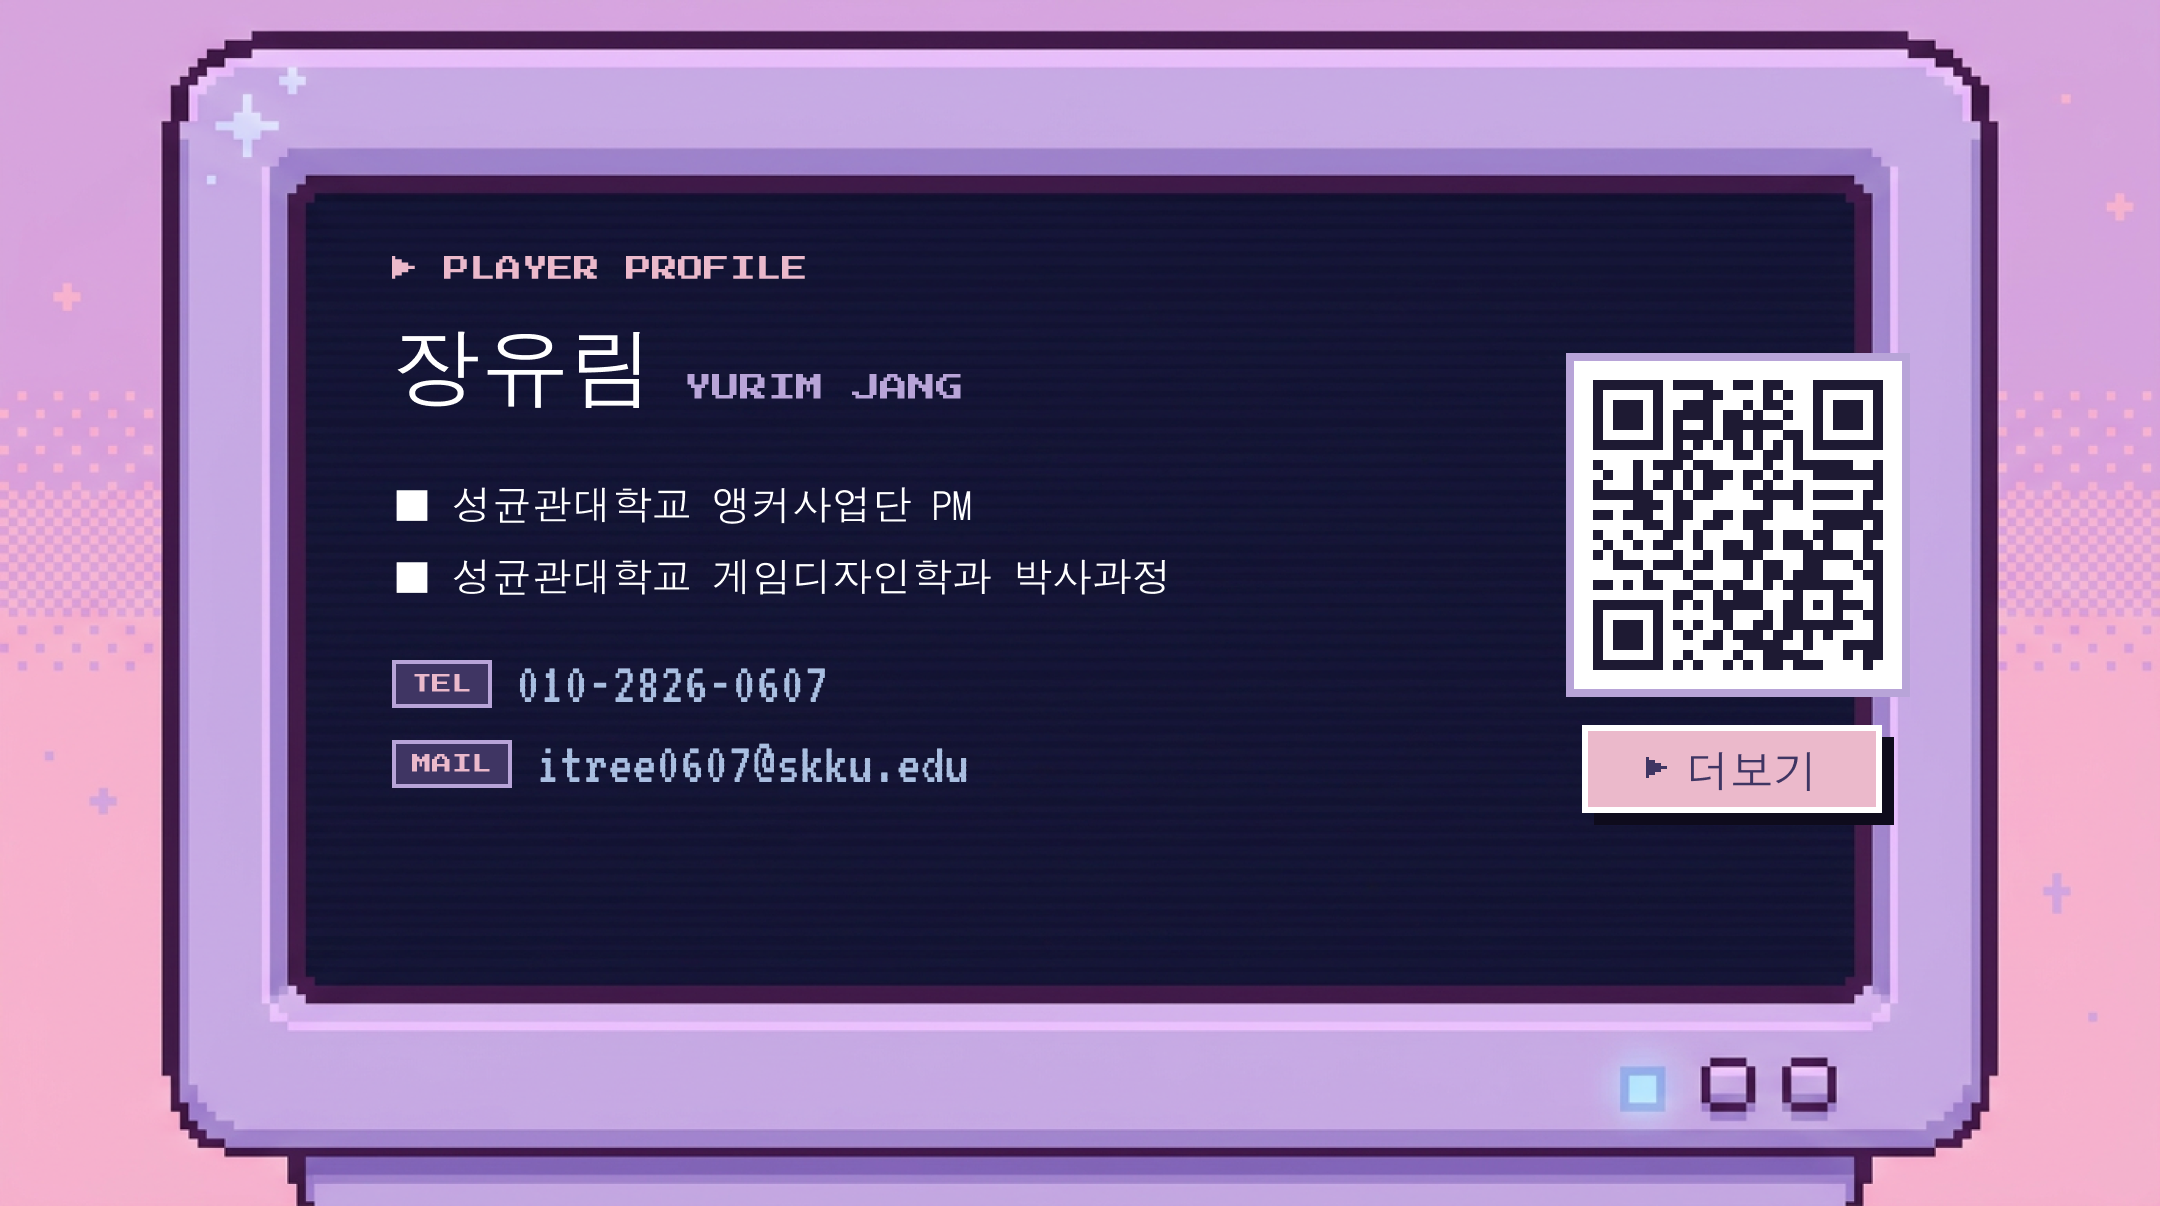
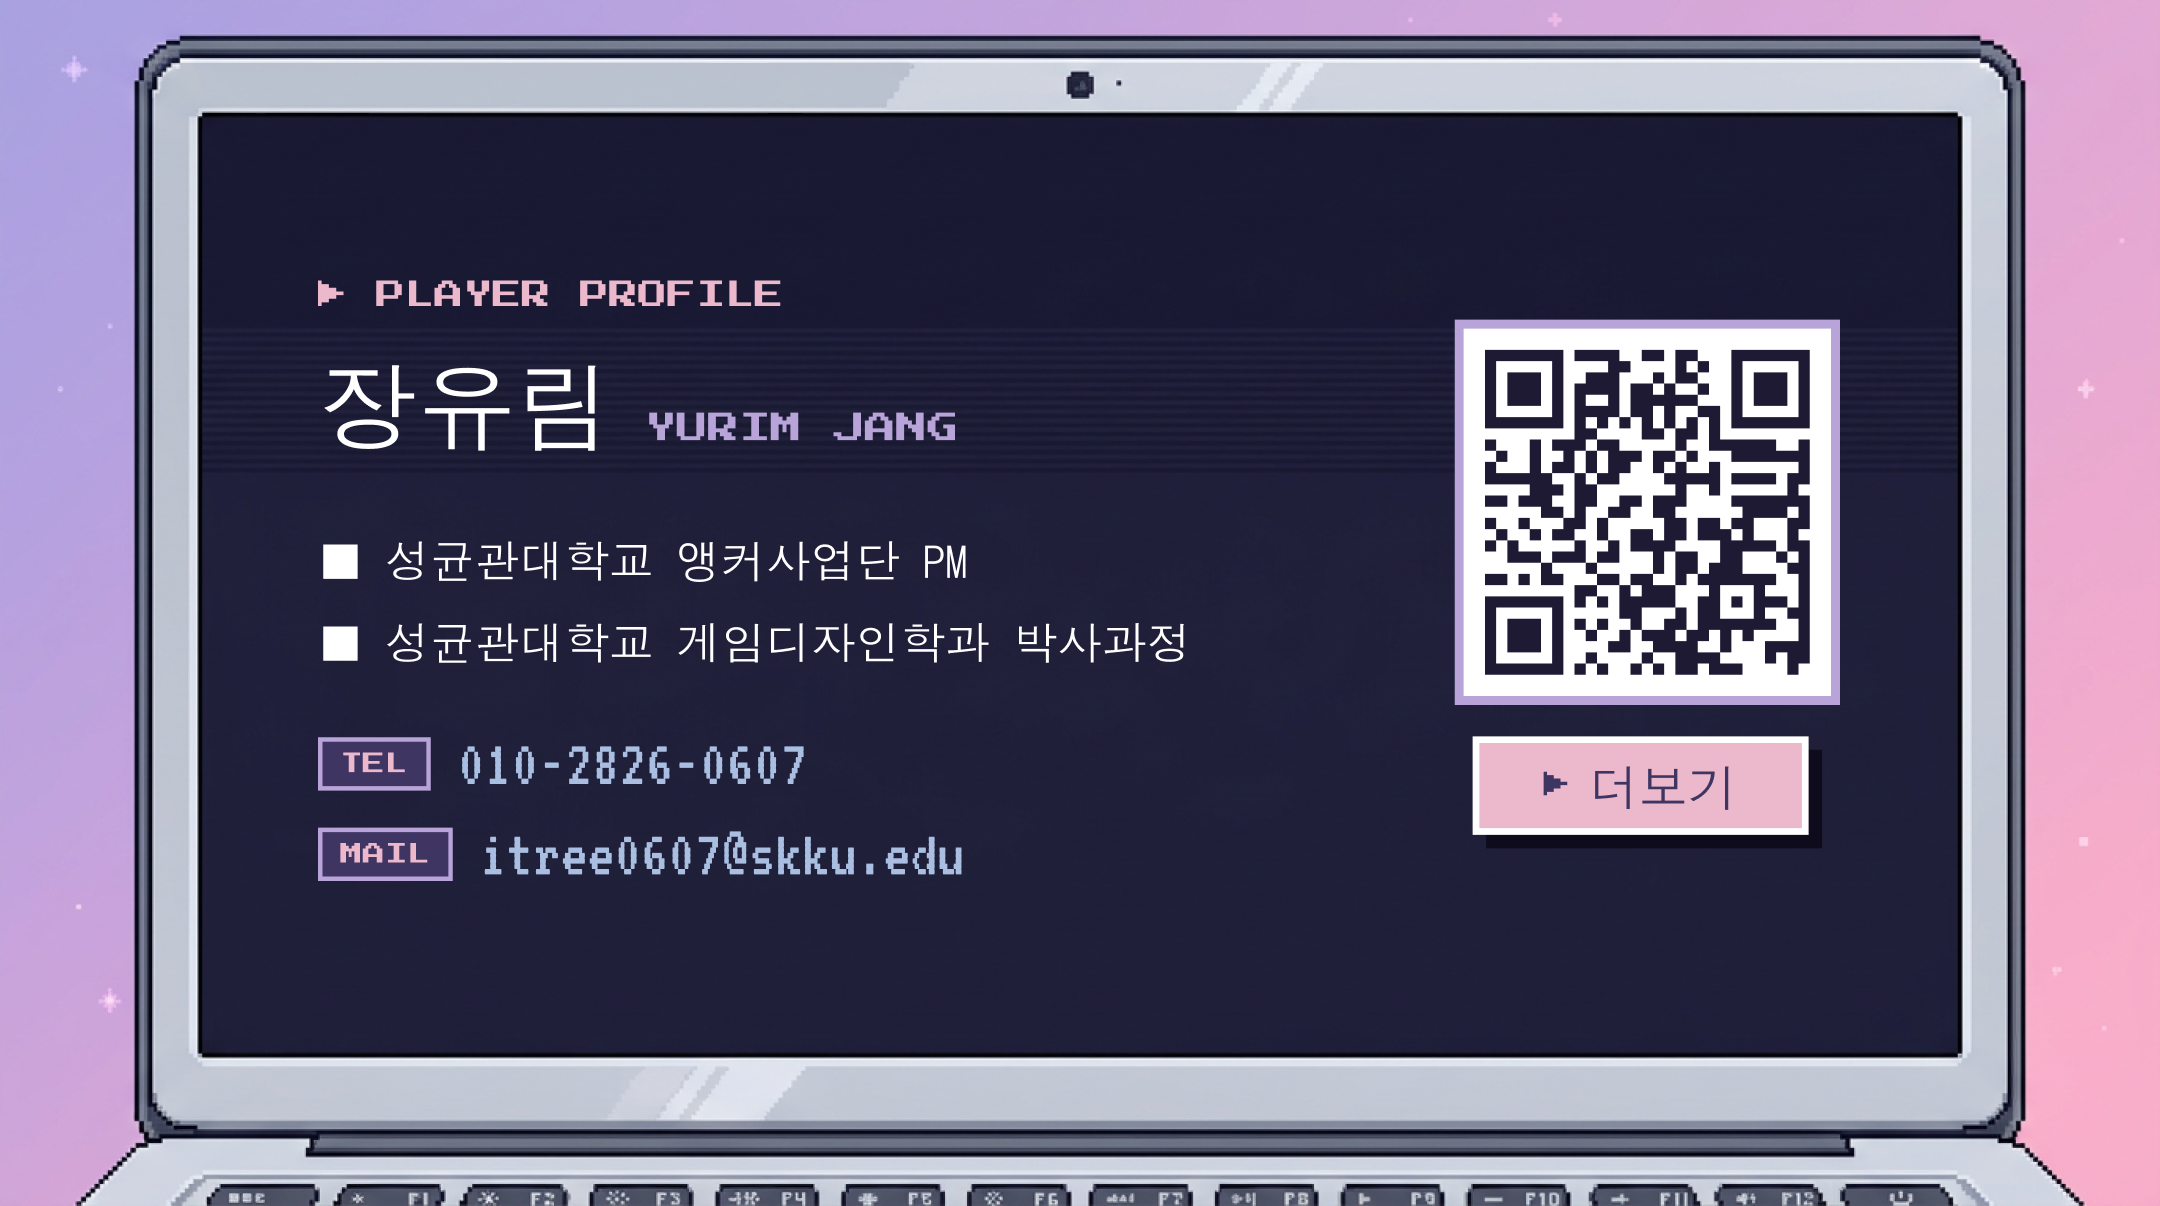
8주차 명함을 실버 노트북 앞·뒷면 디자인으로 교체

diff --git a/src/data.js b/src/data.js
@@ -88,7 +88,7 @@
       links:[{label:'GitHub',url:'https://github.com/JangYurim0607/week6_skills_package'},{label:'A 키워드 분석(PDF)',url:'https://github.com/JangYurim0607/week6_skills_package/blob/main/A_baseline/output/keyword_analysis.pdf'},{label:'A 스토리보드(PDF)',url:'https://github.com/JangYurim0607/week6_skills_package/blob/main/A_baseline/output/storyboard.pdf'},{label:'B 키워드 분석(PDF)',url:'https://github.com/JangYurim0607/week6_skills_package/blob/main/B_skills/output/keyword_analysis.pdf'},{label:'B 스토리보드(PDF)',url:'https://github.com/JangYurim0607/week6_skills_package/blob/main/B_skills/output/storyboard.pdf'},{label:'A 프롬프트(md)',url:'https://github.com/JangYurim0607/week6_skills_package/blob/main/A_baseline/prompt.md'},{label:'B 프롬프트(md)',url:'https://github.com/JangYurim0607/week6_skills_package/blob/main/B_skills/prompt.md'},{label:'A/B 비교(md)',url:'https://github.com/JangYurim0607/week6_skills_package/blob/main/compare/COMPARISON.md'}] }
     ,
     { week:'8주차', title:'피그마로 포트폴리오 디자인: 레이아웃 3종 · 브로슈어 · 명함',
-      description:'Claude Code에 Figma 플러그인을 연결해 이 사이트의 색과 폰트를 토큰·컴포넌트로 옮기고, 모바일 웹·아이패드·Phone UI 레이아웃 3종을 그렸습니다. 로고는 Figma AI로 생성했습니다. 명함은 AI로 만든 도트 게임 모니터(앞면)와 스티커 붙은 도트 노트북(뒷면) 위에 인적 정보와 포트폴리오 QR을 얹었고, 사이트를 중심으로 한 A4 브로슈어 1장도 만들었습니다.',
+      description:'Claude Code에 Figma 플러그인을 연결해 이 사이트의 색과 폰트를 토큰·컴포넌트로 옮기고, 모바일 웹·아이패드·Phone UI 레이아웃 3종을 그렸습니다. 로고는 Figma AI로 생성했습니다. 명함은 AI로 만든 실버 도트 노트북(앞면은 화면, 뒷면은 게임·학교 스티커가 붙은 덮개) 위에 인적 정보와 포트폴리오 QR을 얹었고, 사이트를 중심으로 한 A4 브로슈어 1장도 만들었습니다.',
       tags:['Figma','Claude Code','Figma MCP','이미지 생성','브로슈어','명함'],
       links:[{label:'피그마 페이지',url:'https://www.figma.com/design/pBcYNrcHfAOoEClr46me2K'},{label:'프롬프트(md)',url:'https://github.com/JangYurim0607/jangyurim0607.github.io/blob/main/assignments/week8/prompts.md'},{label:'브로슈어(PDF)',url:'https://yurim-portfolio-azure.vercel.app/assignments/week8/brochure.pdf'},{label:'명함 앞면',url:'https://yurim-portfolio-azure.vercel.app/assignments/week8/card-front.png'},{label:'명함 뒷면',url:'https://yurim-portfolio-azure.vercel.app/assignments/week8/card-back.png'},{label:'로고',url:'https://yurim-portfolio-azure.vercel.app/assignments/week8/logo.png'},{label:'모바일 웹',url:'https://yurim-portfolio-azure.vercel.app/assignments/week8/layout-mobile.png'},{label:'아이패드',url:'https://yurim-portfolio-azure.vercel.app/assignments/week8/layout-ipad.png'},{label:'Phone UI',url:'https://yurim-portfolio-azure.vercel.app/assignments/week8/layout-phone-ui.png'}] }
   ];

diff --git a/assignments/week8/prompts.md b/assignments/week8/prompts.md
@@ -39,33 +39,35 @@ Minimal logo mark for a game designer and researcher named Yurim Jang. A single 
 
 ## 4. 명함 2장 (AI 이미지 생성 + Figma, 90×50mm 비율, PNG @2x)
 
-요청한 방향:
+요청한 방향(2차 수정 반영):
 
-> 1. 도트스타일 게임 모니터 안에 인적 정보가 적혀있는거야
-> 2. 인적 정보: 성균관대학교 앵커사업단 PM / 성균관대학교 게임디자인학과 박사과정 / 전화번호 / 이메일 / 포트폴리오 사이트 QR코드 넣고 밑에 '더보기'라는 단어 버튼처럼 넣어줘
-> 3. 뒷면디자인: 도트스타일 노트북 모니터 뒷면이고 햄스터, 친칠라, 스타듀밸리, 심즈, 마인크래프트, 성균관대학교 로고(제일 크게 가운데) 도트 스티커가 여기저기 붙어있음
+> 1. 도트 스타일. 명함 자체가 노트북의 앞면·뒷면이다. 앞면은 앞에서 본 모습(아래에 키보드가 살짝 보임), 뒷면은 그냥 뒷면. 노트북 색은 실버
+> 2. 인적 정보: 성균관대학교 앵커사업단 PM / 성균관대학교 게임디자인학과 박사과정 / 전화번호 / 이메일 / 포트폴리오 사이트 QR코드, 그 밑에 '더보기'라는 단어를 버튼처럼
+> 3. 뒷면: 햄스터, 친칠라, 스타듀밸리, 심즈, 마인크래프트, 배틀그라운드, 롤토체스, 성균관대학교 로고(가운데 가장 크게) 도트 스티커가 여기저기 붙어 있음
 
-### 앞면: 도트 게임 모니터
+### 앞면: 앞에서 본 실버 노트북
 
 Figma `generate_image`에 넣은 프롬프트(화면 안쪽은 비워 두고 생성):
 
 ```
-16-bit pixel art illustration, straight-on front view of a cute retro game monitor (chunky CRT-style computer screen) that fills almost the whole wide horizontal canvas. Thick rounded pastel lavender plastic bezel with crisp pixel outlines in deep plum (#3F3563), small pixel power LED and two tiny buttons on the bottom bezel, a small pixel sparkle star on the top-left corner of the bezel. The screen area is very large (about 85% of the image width), completely EMPTY and flat: a solid dark navy (#1E1A33) screen with only very faint horizontal scanlines, no text, no icons, no UI, nothing inside the screen. Background around the monitor: soft pastel pink-to-lavender pixel gradient with a few tiny pixel stars. Clean, limited palette (lavender #B8A4D8, pink #EBB9CB, powder blue #A9BEE0, plum #3F3563, navy #1E1A33). No letters, no words, no logos, no watermark.
+16-bit pixel art illustration, straight-on front view of an OPEN silver laptop that fills the whole wide horizontal canvas. The laptop's display takes up almost all of the image: a thin brushed-silver aluminum bezel with crisp dark grey pixel outlines and a tiny webcam dot at the top center. The screen area is very large (about 85% of the image width and 75% of the height), completely EMPTY and flat: a solid dark navy (#1E1A33) screen with only very faint horizontal scanlines, no text, no icons, no UI, nothing inside the screen. At the very bottom edge only a thin strip of the silver keyboard deck is visible (the hinge and the top row of keys, slightly in perspective), cut off by the bottom of the image. Background behind the laptop: soft pastel lavender-to-pink pixel gradient with a few tiny pixel sparkle stars. Clean limited palette (silver #C9CDD6, light silver #E6E8EE, dark grey #5A5F6B, navy #1E1A33, lavender #B8A4D8, pink #EBB9CB). No letters, no words, no logos, no watermark.
 ```
 
 이미지 생성 모델은 한글과 전화번호를 자주 틀리게 그린다. 그래서 인적 정보는 Figma에서 비워 둔 화면 위에 텍스트로 얹었다.
 - 폰트: Press Start 2P(라벨), VT323(전화·이메일), DotumChe(한글)
 - 내용: ▶ PLAYER PROFILE / 장유림 YURIM JANG / 소속 2줄 / TEL·MAIL
-- QR: 포트폴리오 주소로 실제 생성한 QR(segno)을 넣었고, 브라우저에서 스캔되는지 확인했다
+- QR: 포트폴리오 주소로 실제 생성한 QR(segno)을 사각형 도형으로 그려 넣었다. 내보낸 이미지에서 모듈 841칸이 원본과 모두 일치하는지 확인했다
 - QR 아래에 도트 버튼 모양의 '▶ 더보기'
 
-### 뒷면: 스티커 붙은 도트 노트북
+### 뒷면: 스티커 붙은 실버 노트북 뒷면
 
 ```
-16-bit pixel art illustration, straight-on view of the BACK of a closed laptop lid (the outside of the laptop screen) filling the whole wide horizontal canvas, pastel lavender matte lid with crisp deep plum pixel outlines and a soft pixel highlight. The lid is covered with cute pixel-art die-cut stickers scattered around, each with a white sticker border and a slight drop shadow: the LARGEST sticker in the exact center is a big round dark-green university emblem badge with a stylized ginkgo leaf and the letters "SKKU" in bold pixel letters; around it smaller stickers: a chubby golden hamster, a fluffy grey chinchilla, a green diamond plumbob crystal (The Sims), a grass-and-dirt cube block and a green pixel creeper-style face (Minecraft), a cozy farm chicken, a parsnip and a little farmhouse (Stardew Valley style), plus tiny pixel hearts and sparkle stars. Stickers placed playfully at slight angles, not overlapping the center emblem. Limited cozy palette, clean pixels, no other text, no watermark.
+16-bit pixel art illustration, straight-on flat view of the BACK of a closed SILVER laptop lid (brushed aluminum, light silver #E6E8EE to #C9CDD6 with dark grey pixel outlines and a soft pixel highlight) filling the entire wide horizontal canvas edge to edge, no desk, no room, no background visible. The lid is covered with cute pixel-art die-cut stickers scattered around, each with a white sticker border and a slight drop shadow. The LARGEST sticker in the exact center is a big round dark-green university emblem badge with a stylized ginkgo leaf and the letters "SKKU" in bold pixel letters. Around it, smaller stickers: a chubby golden hamster, a fluffy grey chinchilla, a green diamond plumbob crystal (The Sims), a grass-and-dirt cube block and a green creeper-style face (Minecraft), a cozy farm chicken and a parsnip (Stardew Valley style), a battle-royale level-3 military helmet with a frying pan and an airdrop supply crate (PUBG battlegrounds style), and a golden hexagon game-board tile with a tiny cute round penguin mascot on it (Teamfight Tactics style), plus tiny pixel hearts and sparkle stars. Stickers placed playfully at slight angles, not overlapping the center emblem. Clean pixels, no other text, no watermark.
 ```
 
-가운데 성균관대 스티커는 AI가 은행잎과 SKKU 글자로 해석해서 그린 것이다. 공식 로고 파일은 쓰지 않았다.
+가운데 성균관대 스티커는 AI가 은행잎과 SKKU 글자로 해석해서 그린 것이다. 공식 로고 파일은 쓰지 않았다. 배틀그라운드는 3레벨 헬멧·프라이팬·보급상자로, 롤토체스는 황금 육각 타일과 펭구 꼬마 전설이로 표현했다.
+
+이전 시안(1차 Figma 디자인, 2차 라벤더 도트 모니터)은 Figma 파일에 '(이전)' 표시로 남겨 두었다.
 
 ## 5. 브로슈어 1장 (A4, PDF)
 
